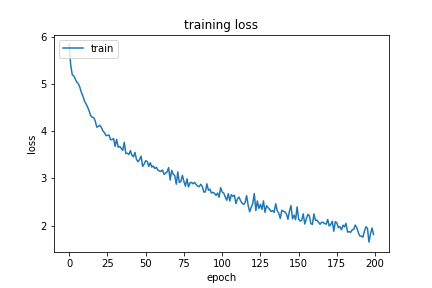
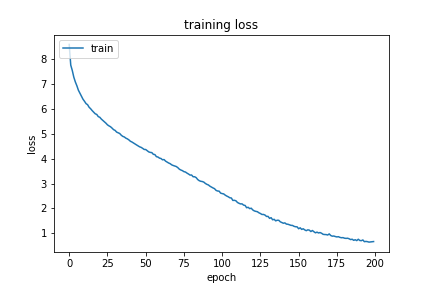
Added offset prediction

diff --git a/main.py b/main.py
@@ -87,11 +87,12 @@ def plot_loss(history):
 # We will load in all available tracks in Music folder and append them into a list
 notes = []
 duration = []
+delta = []
 
 for i, file in enumerate(glob.glob("Music/*.mid")):
-    
+    # Load in the midi file
     midi = converter.parse(file)[0]        
-        
+    # Get notes/chords and duration
     for e in midi.flat.notes:
         if isinstance(e, note.Note):
             notes.append(str(e.pitch))
@@ -100,6 +101,13 @@ for i, file in enumerate(glob.glob("Music/*.mid")):
             # return numerical representation of chord (normal order)
             notes.append('.'.join(str(n) for n in e.normalOrder))
             duration.append(float(e.duration.quarterLength))
+    # Get the offset of each note and convert to deltas
+    deltatemp = []
+    [deltatemp.append(x['offsetSeconds']) for x in midi.flat.notes.secondsMap]
+    deltatemp = [deltatemp[x] - deltatemp[y] for x, y in zip(range(1,len(deltatemp)),range(0, len(deltatemp)-1))]
+    deltatemp.insert(0,0)
+    delta.extend(deltatemp)
+    
     print('')
     print("{} Loaded".format(file))
 
@@ -108,10 +116,14 @@ for i, file in enumerate(glob.glob("Music/*.mid")):
 pitches = sorted(set(item for item in notes))
 # Get all duration variations
 durations = sorted(set(duration))
-# Count number of different pitches
+# Get all offset variations
+deltas = sorted(set(delta))
+# Count number of different pitches, notes, durations, offsets
 pitch_count = len(pitches)  
 note_count = len(notes)
 speed_count = len(durations)
+delta_count = len(deltas)
+
 
 # Use one-hot encoding for each note and create an array 
 # First index the possible notes
@@ -123,6 +135,11 @@ for i, notev in enumerate(pitches):
 dur_dict = dict()
 for i, dur in enumerate(sorted(set(durations))):
     dur_dict[dur] = i
+    
+# Do the same for offsets
+delta_dict = dict()
+for i, deltav in enumerate(deltas):
+    delta_dict[deltav] = i
 
 # Now let's construct sequences. Taking each note and encoding it as a numpy array with a 1 in the position of the note it has
 seq_len = 50
@@ -143,46 +160,53 @@ for i in range(0, num_seq):
         
     output_notes[i] = to_categorical(note_dict[output_note], len(pitches))
 
-# Notes with duration added at the very end of each array
+# Notes with duration and offsets added at the very end of each array
 input_note_d = []
 for i in range(0, num_seq):
     start = 0
-    input_note_d.append(np.hstack((input_notes[i], np.array(pd.get_dummies(duration))[start:start+50].reshape(50,speed_count))))
+    obj = np.hstack((input_notes[i], np.array(pd.get_dummies(duration))[start:start+50].reshape(50,speed_count)))
+    obj = np.hstack((obj, np.array(pd.get_dummies(delta))[start:start+50].reshape(50, delta_count)))
+    input_note_d.append(obj)
     start += 1
 input_note_d = np.array(input_note_d)
 
 output_note_d = []
 for i in range(0, num_seq):
     start = seq_len # This is 50
-    output_note_d.append(np.hstack((output_notes[i], np.array(pd.get_dummies(duration))[start])))
+    obj = np.hstack((output_notes[i], np.array(pd.get_dummies(duration))[start]))
+    obj = np.hstack((obj, np.array(pd.get_dummies(delta))[start]))
+    output_note_d.append(obj)
     start += 1
 output_note_d = np.array(output_note_d)
 
 #===============================LSTM model=====================================
-model = Sequential()
-model.add(LSTM(128, return_sequences=True, input_shape=(seq_len, pitch_count+speed_count)))
-model.add(Dropout(0.2))
-model.add(LSTM(128, return_sequences=False))
-model.add(Dropout(0.2))
-model.add(Dense(pitch_count+speed_count))
+def LSTM_block(output_size):
+  model = Sequential()
+  model.add(LSTM(128, return_sequences=True, input_shape=(seq_len, output_size)))
+  model.add(Dropout(0.2))
+  model.add(LSTM(128, return_sequences=False))
+  model.add(Dropout(0.2))
+  model.add(Dense(output_size))
+  return model
 
+model = LSTM(pitch_count+speed_count+delta_count)
 top_input = Input(shape=input_note_d.shape[1:])
 embedding = model(top_input)
 
 note_outs = Dense(pitch_count, activation='softmax')(embedding)
 duration_outs = Dense(speed_count, activation='softmax')(embedding)
+delta_outs = Dense(delta_count, activation='softmax')(embedding)
 
-#note_model.compile(loss='categorical_crossentropy', optimizer='rmsprop', metrics=['acc'])
-#duration_modl.compile(loss='mse', optimizer='rmsprop',metrics=['acc'])
+comb_modl = Model(top_input, [note_outs, duration_outs, delta_outs])
+comb_modl.compile(loss=['categorical_crossentropy','categorical_crossentropy','categorical_crossentropy'],
+                  optimizer='rmsprop',metrics=['acc'])
 
-comb_modl = Model(top_input, [note_outs, duration_outs])
-comb_modl.compile(loss=['categorical_crossentropy', 'categorical_crossentropy'],optimizer='rmsprop',metrics=['acc'])
-
-plot_model(comb_modl, to_file='LSTM_model.png' ,expand_nested=True, show_shapes=True, show_layer_names=True)
+plot_model(comb_modl, to_file='LSTM_model.png', expand_nested=True, show_shapes=True, show_layer_names=True)
 
 #=============================Train LSTM model=================================
-history = comb_modl.fit(input_note_d, [output_notes, np.array(pd.get_dummies(duration))[50:]], 
-                        batch_size=128, epochs=200)
+history = comb_modl.fit(input_note_d, [output_notes, np.array(pd.get_dummies(duration))[50:], 
+                                       np.array(pd.get_dummies(delta))[50:]], 
+                        batch_size=128, epochs=500)
 
 plot_loss(history)
 
@@ -198,16 +222,23 @@ backward_dur = dict()
 for durv in dur_dict.keys():
     index = dur_dict[durv]
     backward_dur[index] = durv
+    
+# Same for deltas
+backward_delta = dict()
+for deltav in delta_dict.keys():
+    index = delta_dict[deltav]
+    backward_delta[index] = deltav
 
 # Pick a random sequence from the input as a starting point for the prediction
 n = np.random.randint(0, len(input_note_d)-1)
 sequence = input_note_d[n]
-start_sequence = sequence.reshape(1, seq_len, pitch_count+speed_count)
+start_sequence = sequence.reshape(1, seq_len, pitch_count+speed_count+delta_count)
 output = []
 dur = []
+delts = []
 # Generate song with 100 notes
-for i in range(0, 100):
-    newNote, durat = comb_modl.predict(start_sequence, verbose=0)
+for i in range(0, 200):
+    newNote, durat, delt = comb_modl.predict(start_sequence, verbose=0)
     # Get the position with the highest probability for note
     index = np.argmax(newNote)
     encoded_note = to_categorical(index, pitch_count)
@@ -216,11 +247,16 @@ for i in range(0, 100):
     index2 = np.argmax(durat)
     encoded_durat = to_categorical(index2, speed_count)
     dur.append(encoded_durat)
+    # Do the same for delta
+    index3 = np.argmax(delt)
+    encoded_delts = to_categorical(index3, delta_count)
+    delts.append(encoded_delts)
+    
     sequence = start_sequence[0][1:]
     start_sequence = np.concatenate((sequence, 
-                                     np.concatenate((encoded_note, encoded_durat)).reshape(1, pitch_count+speed_count)))
-    start_sequence = start_sequence.reshape(1, seq_len, pitch_count+speed_count)
-    
+                                     np.concatenate((encoded_note, encoded_durat, encoded_delts)).reshape(1, pitch_count+speed_count+delta_count)))
+    start_sequence = start_sequence.reshape(1, seq_len, pitch_count+speed_count+delta_count)
+
 finalNotes = [] 
 for element in output:
     index = list(element).index(1)
@@ -230,6 +266,11 @@ finalDurations = []
 for element in dur:
     index = list(element).index(1)
     finalDurations.append(backward_dur[index])
+
+finalOffsets = []
+for element in delts:
+    index = list(element).index(1)
+    finalOffsets.append(backward_delta[index])
     
 offset = 0
 output_notes = []
@@ -255,7 +296,7 @@ for i, pattern in enumerate(finalNotes):
         output_notes.append(new_note)
 
     # Increase offset each iteration so that notes do not stack
-    offset += 0.5
+    offset += (finalOffsets[i] + 0.25)
     
 #=============================Save song as MIDI================================
 midi_stream = stream.Stream(output_notes)
